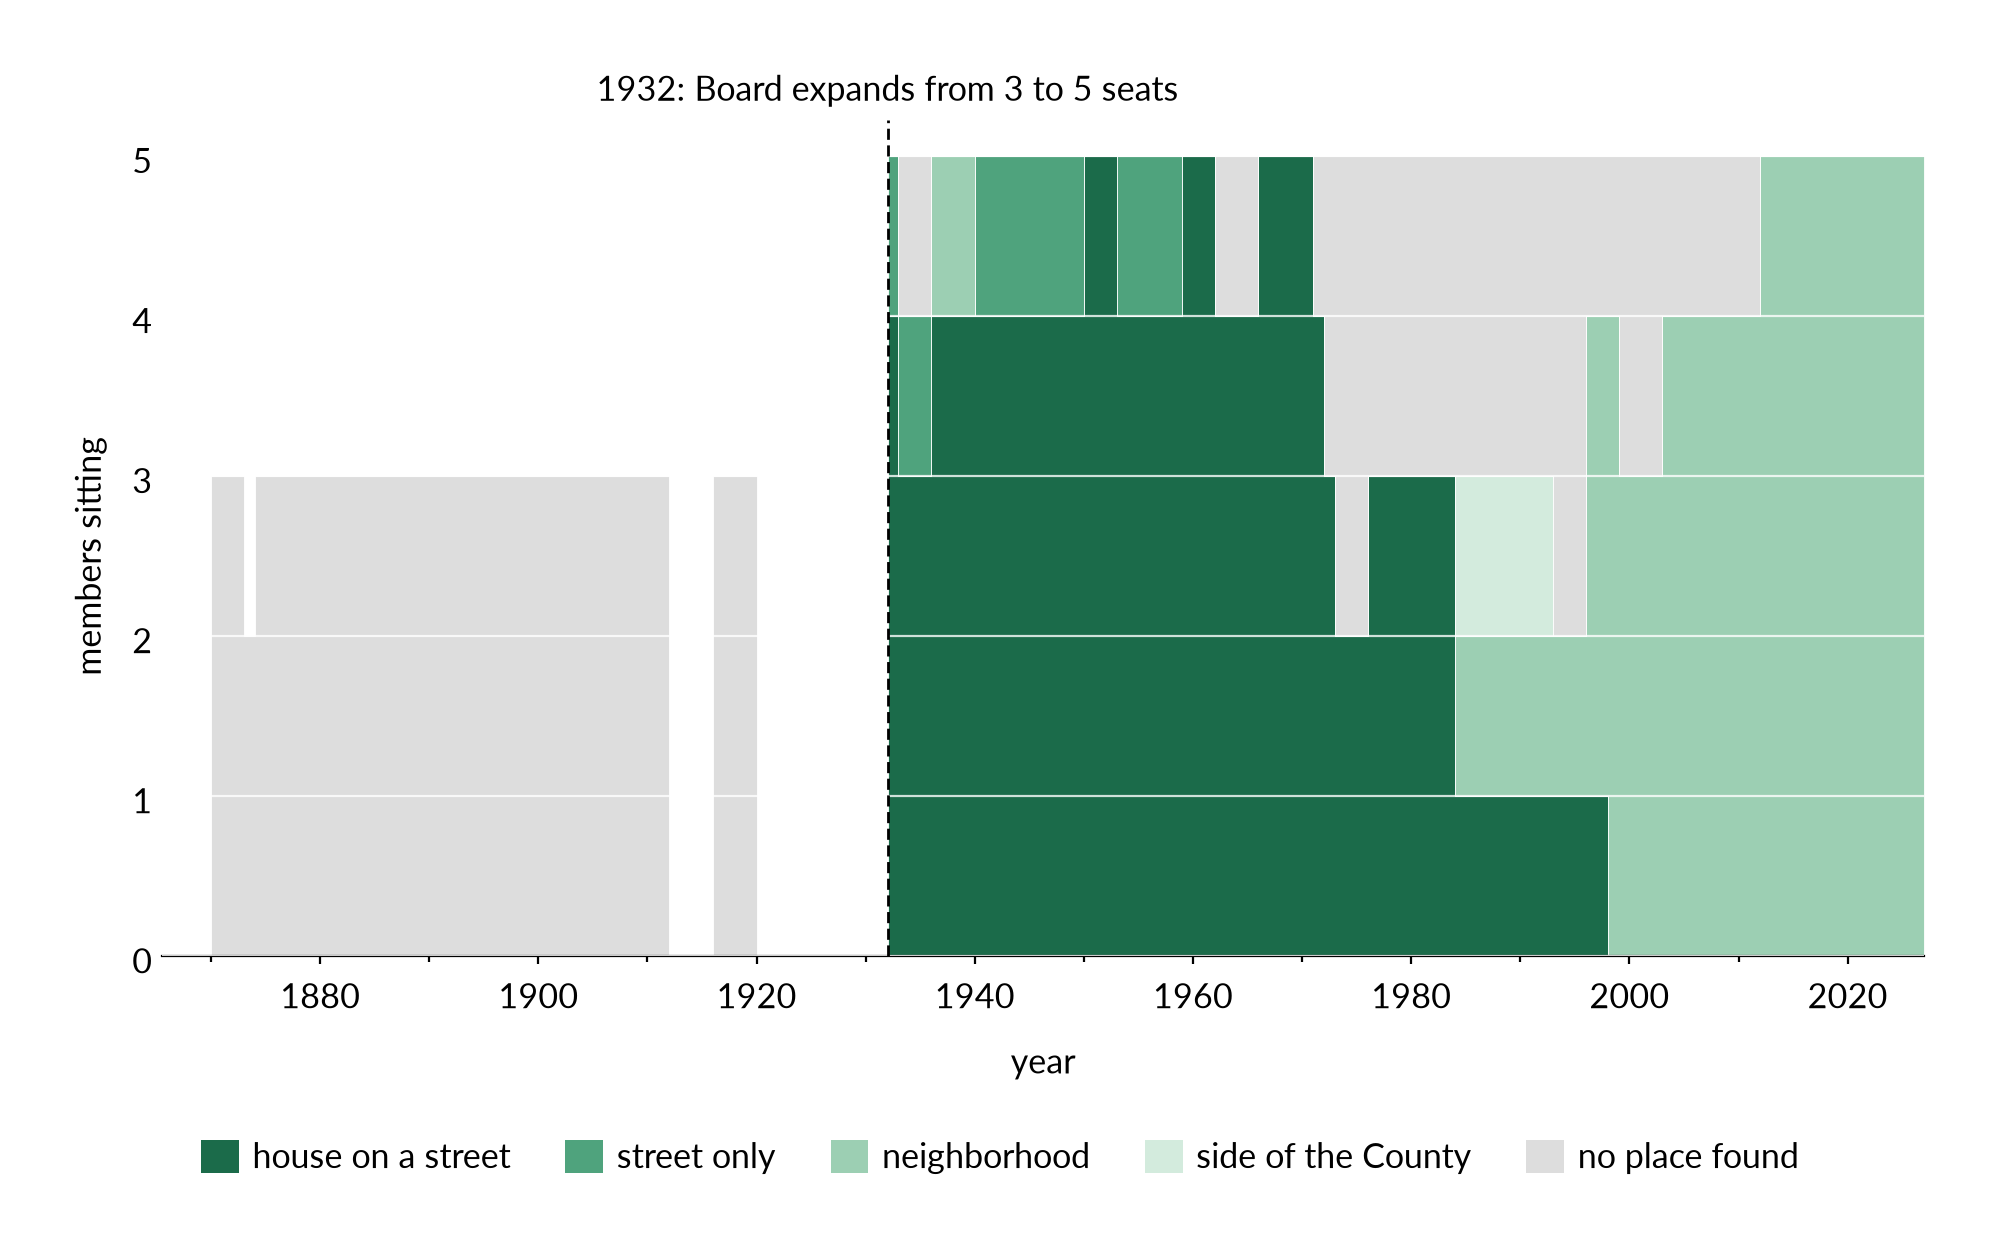
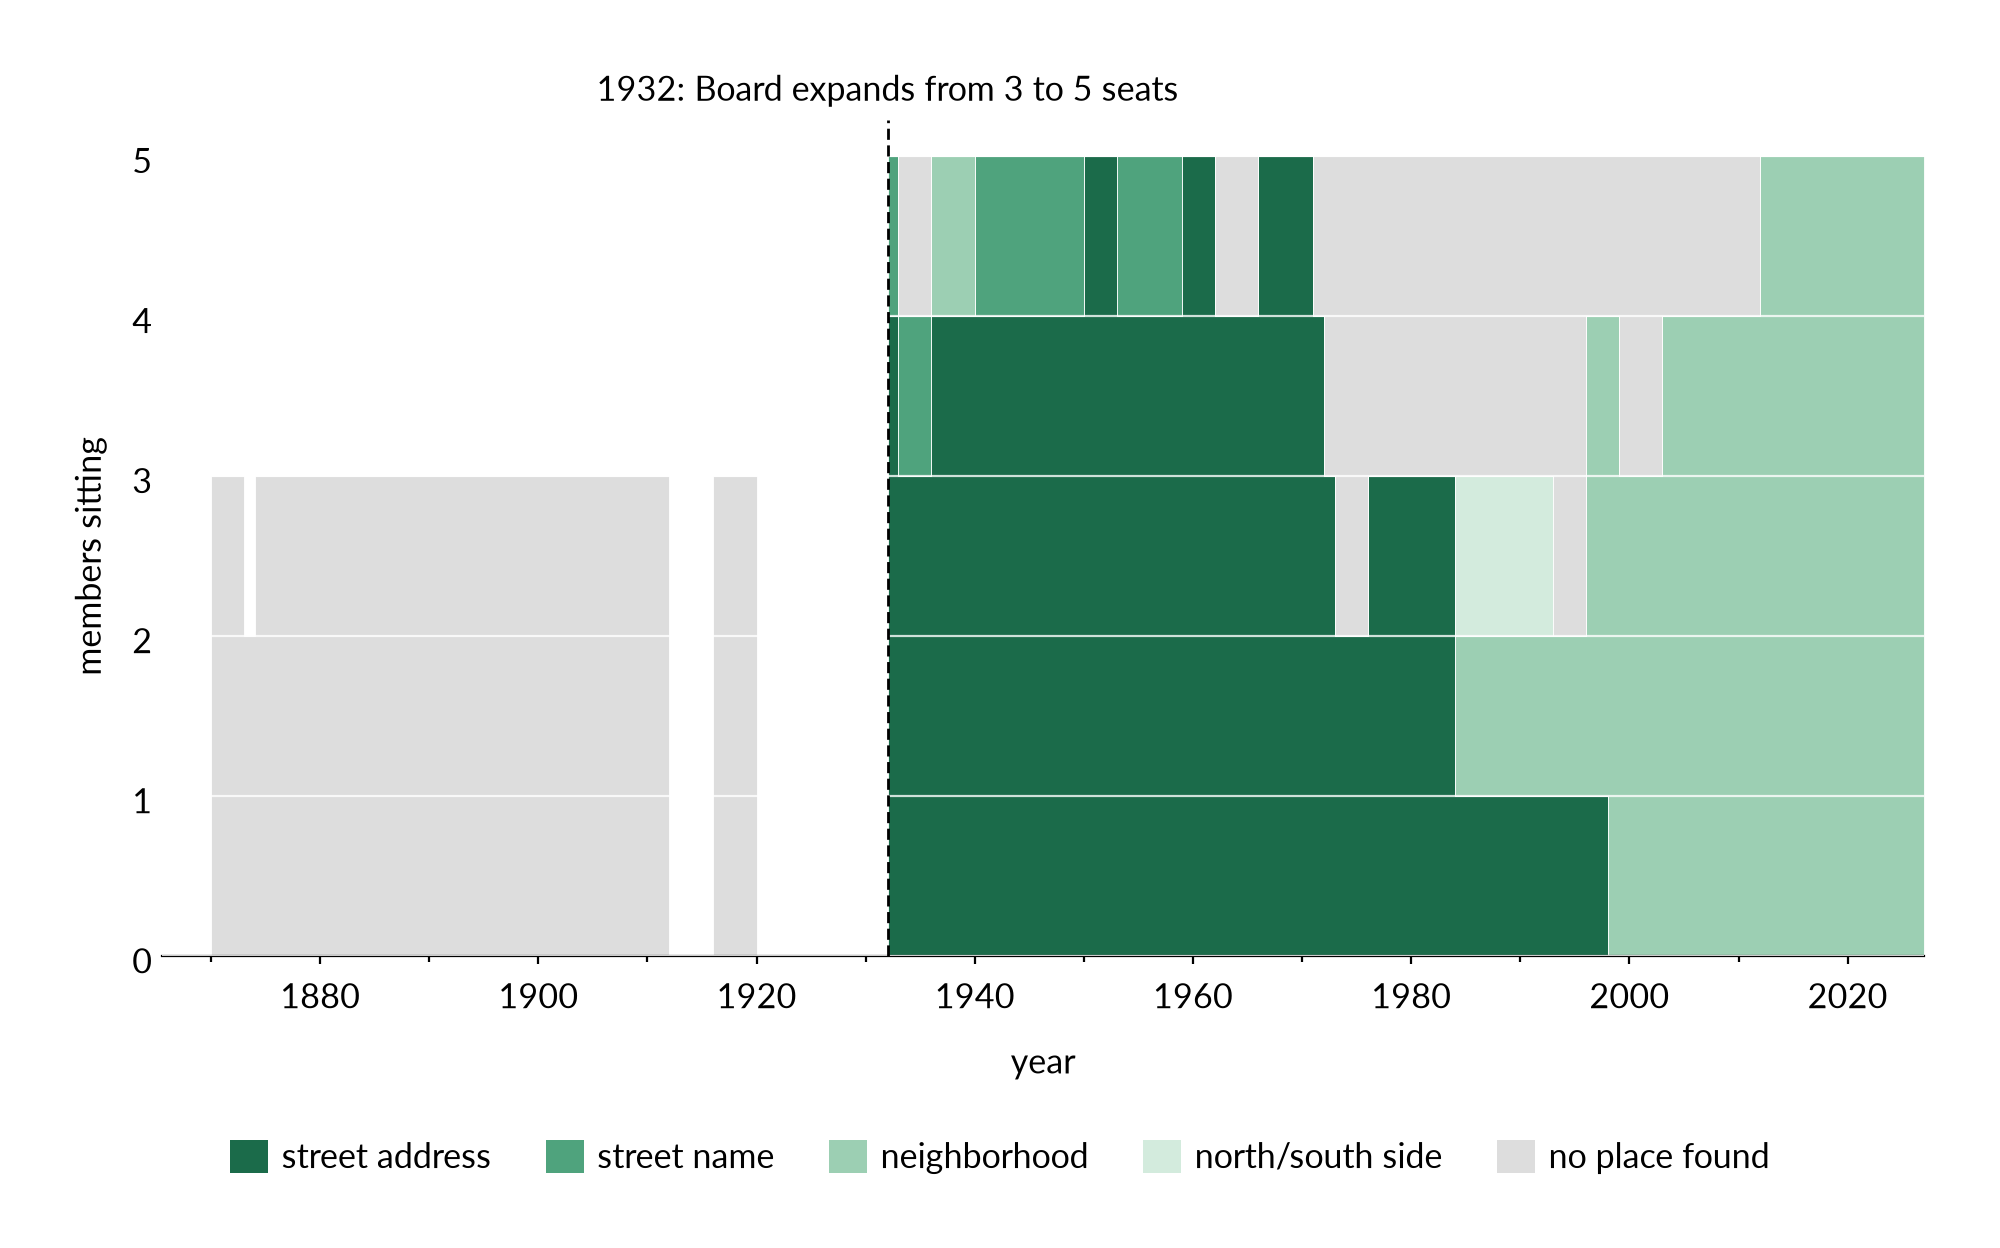
board_residence_coverage: labels read street address, street name, neighborhood, north/south side

Changed region(s): [[0.589, 0.9062, 0.899, 0.9375], [0.093, 0.9062, 0.403, 0.9375], [0.434, 0.9062, 0.558, 0.9375]]

diff --git a/style/style.py b/style/style.py
@@ -82,10 +82,10 @@ AGE_BANDS = {
 # How exactly the sitting Board's homes are known: one hue, darker the more
 # exactly the place is named, and the no-evidence grey for no place at all.
 RESIDENCE = {
-    "address":      ("house on a street", "#1B6B4A"),
-    "street":       ("street only", "#4FA37D"),
+    "address":      ("street address", "#1B6B4A"),
+    "street":       ("street name", "#4FA37D"),
     "neighborhood": ("neighborhood", "#9CCFB3"),
-    "side":         ("side of the County", "#D3EBDD"),
+    "side":         ("north/south side", "#D3EBDD"),
     "none":         ("no place found", UNRECORDED),
 }
 PRESIDENT = ("voted for President", DARK)

diff --git a/docs/figures.md b/docs/figures.md
@@ -266,8 +266,8 @@ Decades collide at 6.25 inches, and rotated labels are slower to read.
 - **board_residence_coverage.** A diagnostic to show the County: of the
   members sitting on 1 July of each year, how exactly a home is known, as a
   stacked step area on the seat axis like the age coverage. One hue, darkest
-  green for a house on a street, then a street only, a neighborhood, a side
-  of the County, and the no-evidence grey for no place found; darker means
+  green for a street address, then a street name, a neighborhood, a
+  north/south side, and the no-evidence grey for no place found; darker means
   closer to the address a payroll or filing record would give. A member counts
   at the most exact place any source gives, whenever dated, so it can show a
   member as known from a source written after their service
